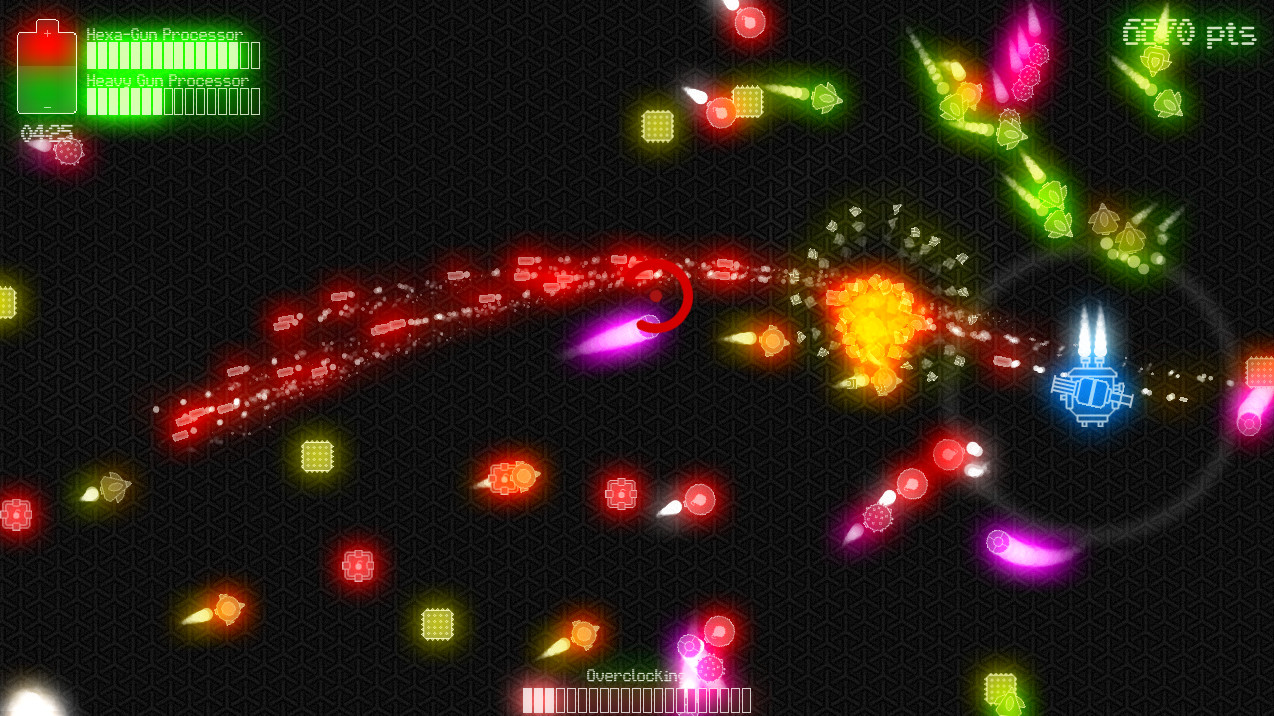
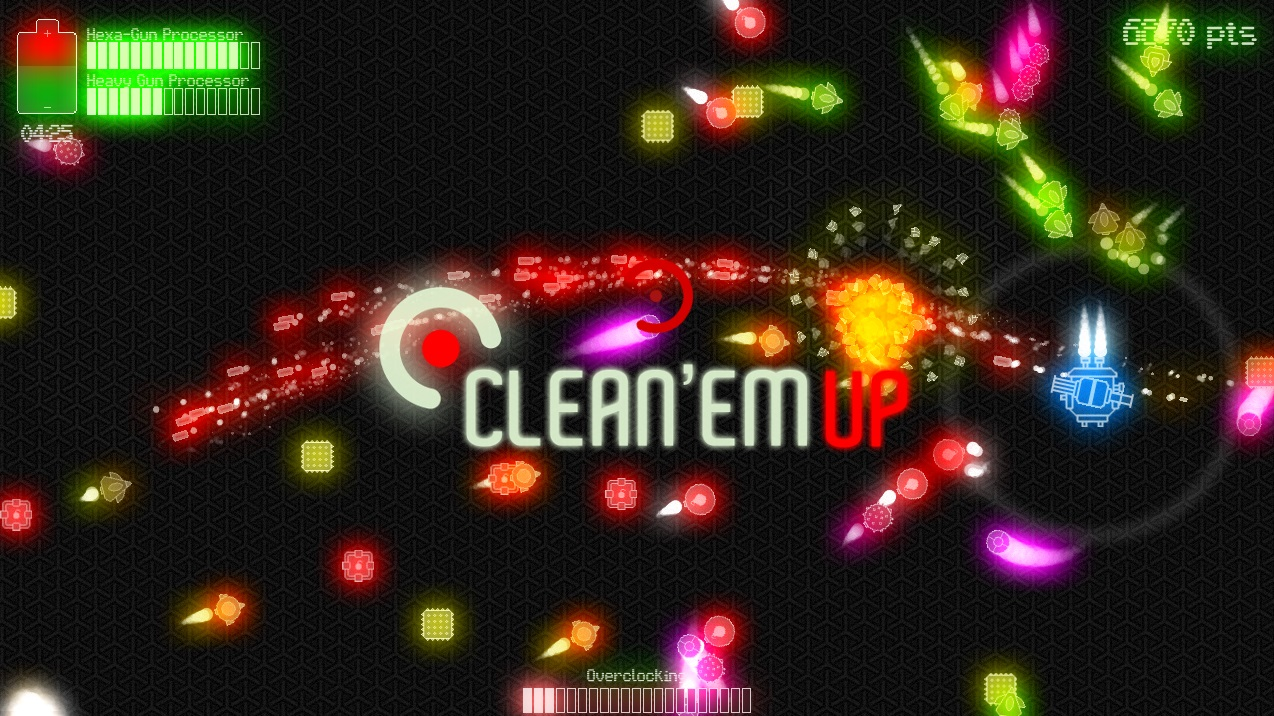
clean

diff --git a/index.html b/index.html
@@ -55,8 +55,8 @@ html,body,h1,h2,h3,h4 {font-family:"Lato", sans-serif}
       </div>
     </div>
 	<div class="w3-display-container mySlides">
-      <a href="https://store.steampowered.com/app/351410/CleanEm_Up/" target="_blank"><img src="cleans.jpg" cursor = "pointer" style="width:100%"></a>
-      <div class="w3-display-middle w3-container w3-padding-32">
+      <a href="https://store.steampowered.com/app/351410/CleanEm_Up/" target="_blank"><img src="clean.jpg" cursor = "pointer" style="width:100%"></a>
+      <div class="w3-display-bottommiddle w3-container w3-padding-32">
         <span class="w3-button w3-purple w3-padding-large w3-animate-bottom" onclick="window.open('https://store.steampowered.com/app/351410/CleanEm_Up/')">Free on Steam</span>
       </div>
     </div>
